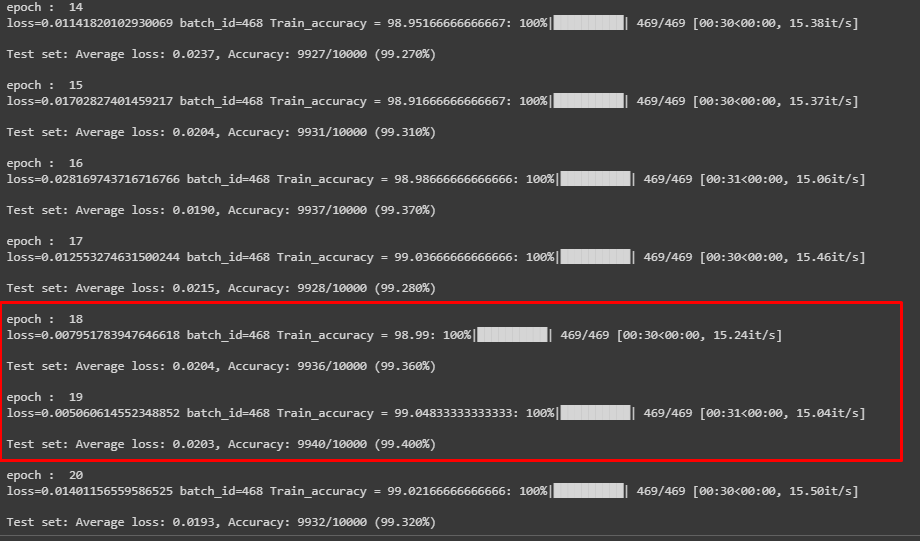
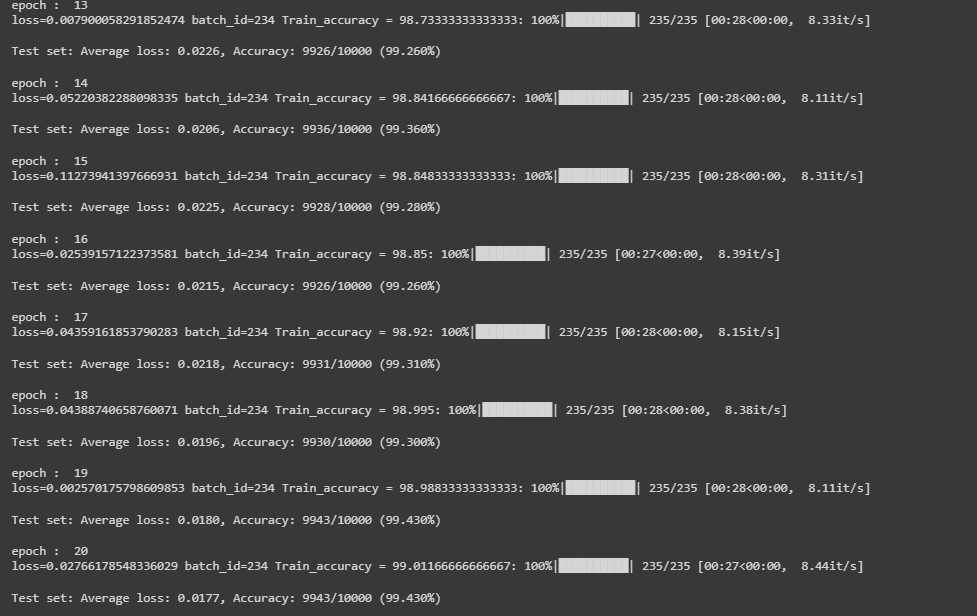
Updated readme and model architecture

Changed region(s): [[0.0, 0.3845, 1.0, 1.0], [0.0, 0.0, 0.9435, 0.3549]]

diff --git a/Session6/part2/Readme.md b/Session6/part2/Readme.md
@@ -1,7 +1,7 @@
 
 # Part 2
 
-## MNIST CLassifier using Convolutional Neural Network with 99.4% Validation accuracy
+## MNIST CLassifier using Convolutional Neural Network with 99.4% Validation accuracy and parameters less than 20K.
 
 ### Constraints :
 
@@ -15,18 +15,18 @@
 ----------------------------------------------------------------
         Layer (type)               Output Shape         Param #
 ================================================================
-            Conv2d-1           [-1, 16, 26, 26]             160
-       BatchNorm2d-2           [-1, 16, 26, 26]              32
-           Dropout-3           [-1, 16, 26, 26]               0
-            Conv2d-4           [-1, 32, 24, 24]           4,640
+            Conv2d-1            [-1, 8, 26, 26]              80
+       BatchNorm2d-2            [-1, 8, 26, 26]              16
+           Dropout-3            [-1, 8, 26, 26]               0
+            Conv2d-4           [-1, 32, 24, 24]           2,336
        BatchNorm2d-5           [-1, 32, 24, 24]              64
            Dropout-6           [-1, 32, 24, 24]               0
             Conv2d-7            [-1, 8, 24, 24]             264
          MaxPool2d-8            [-1, 8, 12, 12]               0
-            Conv2d-9           [-1, 16, 10, 10]           1,168
-      BatchNorm2d-10           [-1, 16, 10, 10]              32
-          Dropout-11           [-1, 16, 10, 10]               0
-           Conv2d-12             [-1, 32, 8, 8]           4,640
+            Conv2d-9           [-1, 32, 10, 10]           2,336
+      BatchNorm2d-10           [-1, 32, 10, 10]              64
+          Dropout-11           [-1, 32, 10, 10]               0
+           Conv2d-12             [-1, 32, 8, 8]           9,248
       BatchNorm2d-13             [-1, 32, 8, 8]              64
           Dropout-14             [-1, 32, 8, 8]               0
            Conv2d-15             [-1, 16, 8, 8]             528
@@ -35,14 +35,14 @@
         AvgPool2d-18             [-1, 32, 1, 1]               0
            Linear-19                   [-1, 10]             330
 ================================================================
-Total params: 16,562
-Trainable params: 16,562
+Total params: 19,970
+Trainable params: 19,970
 Non-trainable params: 0
 ----------------------------------------------------------------
 Input size (MB): 0.00
-Forward/backward pass size (MB): 0.81
-Params size (MB): 0.06
-Estimated Total Size (MB): 0.87
+Forward/backward pass size (MB): 0.72
+Params size (MB): 0.08
+Estimated Total Size (MB): 0.80
 ----------------------------------------------------------------
 ```
 
@@ -70,10 +70,9 @@ Estimated Total Size (MB): 0.87
 
 * Fully connected (FC) layer is the last layer of network.
 
+* Trainable parameters for network are 19,970 (less than 20k).
 
-* Trainable parameters for network are 16,564 (less than 20k).
-
-## 99.4% test/validation accuracy from 18th epoch.
+## 99.4% test/validation accuracy from 14th epoch and maximum test accuracy got is 99.430%.
 
 ![image](images/training_details.png)
 
